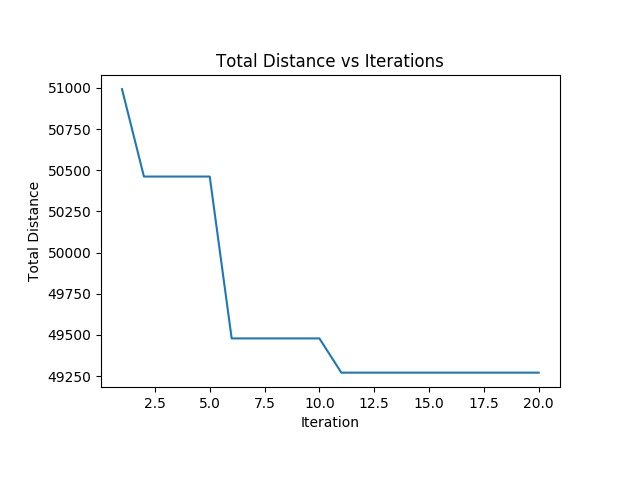
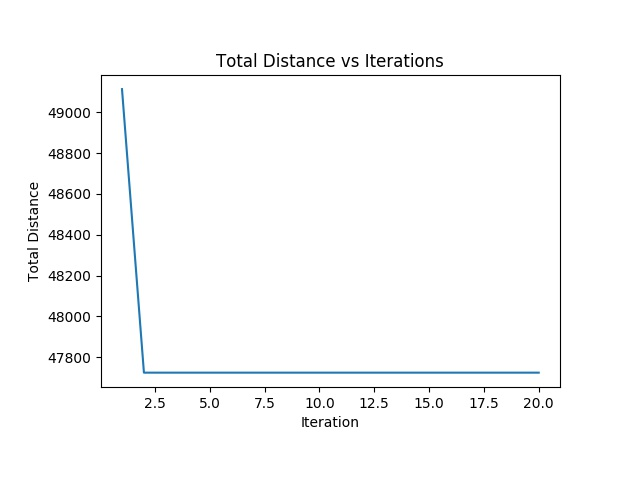
rda_algo_mpi_2.py working great just some overflow error

diff --git a/rda_algo_mpi_2.py b/rda_algo_mpi_2.py
@@ -14,7 +14,7 @@ import random, math
 import sys
 from tqdm import tqdm
 np.random.seed(44)
-
+np.seterr(all='warn')
 from utilities import Solution, initialize, sort_agents, cycle_cost, display
 
 from mpi4py import MPI
@@ -176,34 +176,29 @@ def RDA(num_agents, max_iter, graph, N_vertices, obj_function, save_conv_graph, 
             num_harems = None
             num_harems_len = None
 
-        harem_shape = comm.bcast(harem_shape, root=0)
-        num_harems_len = comm.bcast(num_harems_len, root=0)
-
-        harem_scattered = np.empty(shape=(harem_shape[0] // N_PROCS, harem_shape[1], harem_shape[2]))
-        num_harems_scattered = np.empty(num_harems_len // N_PROCS)
-
-        comm.Scatter(num_harems, num_harems_scattered)
-        comm.Scatter(harem, harem_scattered, root=0)
+        num_harems = comm.bcast(num_harems, root=0)
+        harem = comm.bcast(harem, root=0)
 
         if (myrank == 0):
             # mating of commander with hinds in his harem
-            num_harem_mate = np.array([int(x * alpha) for x in num_harems]) # Eq. (11)
+            num_harem_mate = [int(x * alpha) for x in num_harems] # Eq. (11)
             population_pool = list(deer)
         else:
             num_harem_mate = None
 
-        num_harem_mate_scattered = np.empty(num_coms // N_PROCS)
-
-        comm.Scatter(num_harem_mate, num_harem_mate_scattered, root=0)
-        comm.Scatter(coms, coms_scattered, root=0)
+        num_harem_mate = comm.bcast(num_harem_mate, root=0)
+        coms = comm.bcast(coms, root=0)
 
         population_pool_addition_local = []
 
-        for i in range(local_num_coms):
-            random.shuffle(harem_scattered[i])
-            for j in range(int(num_harem_mate_scattered[i])):
+        lo = myrank*(num_coms//N_PROCS)
+        hi = (myrank+1)*(num_coms//N_PROCS)
+        for i in range(lo, hi):
+            random.shuffle(harem[i])
+            for j in range(num_harem_mate[i]):
+                # print(j, end=', ')
                 r = np.random.random() # r is a random number in [0, 1]
-                offspring = (coms_scattered[i] + harem_scattered[i][j]) / 2 + (UB - LB) * r # Eq. (12)
+                offspring = (coms[i] + harem[i][j]) / 2 + (UB - LB) * r # Eq. (12)
 
                 population_pool_addition_local.append(list(offspring))
 
@@ -212,14 +207,14 @@ def RDA(num_agents, max_iter, graph, N_vertices, obj_function, save_conv_graph, 
                     # mating of commander with hinds in another harem
                     k = i
                     while k == i:
-                        k = random.choice(range(local_num_coms))
+                        k = random.choice(range(num_coms))
 
-                    num_mate = int(num_harems_scattered[k] * beta) # Eq. (13)
+                    num_mate = int(num_harems[k] * beta) # Eq. (13)
 
-                    np.random.shuffle(harem_scattered[k])
+                    np.random.shuffle(harem[k])
                     for j in range(num_mate):
                         r = np.random.random() # r is a random number in [0, 1]
-                        offspring = (coms_scattered[i] + harem_scattered[k][j]) / 2 + (UB - LB) * r
+                        offspring = (coms[i] + harem[k][j]) / 2 + (UB - LB) * r
                         population_pool_addition_local.append(list(offspring))
 
         population_pool_addition_Final = comm.gather(population_pool_addition_local, root=0)
@@ -249,12 +244,13 @@ def RDA(num_agents, max_iter, graph, N_vertices, obj_function, save_conv_graph, 
         population_pool_addition_local = []
 
         for stag in stags_scattered:
+            print(stag)
             dist = np.zeros(local_num_hinds)
             for i in range(local_num_hinds):
-                dist[i] = math.sqrt(np.sum((stag-hinds_scattered[i])*(stag-hinds_scattered[i])))
+                dist[i] = np.sqrt(np.sum((stag-hinds_scattered[i])*(stag-hinds_scattered[i])))
             min_dist = np.min(dist)
             for i in range(local_num_hinds):
-                distance = math.sqrt(np.sum((stag-hinds_scattered[i])*(stag-hinds_scattered[i]))) # Eq. (14)
+                distance = np.sqrt(np.sum((stag-hinds_scattered[i])*(stag-hinds_scattered[i]))) # Eq. (14)
                 if(distance == min_dist):
                     r = np.random.random() # r is a random number in [0, 1]
                     offspring = (stag + hinds_scattered[i])/2 + (UB - LB) * r
@@ -338,8 +334,8 @@ if __name__ == "__main__":
     comm = MPI.COMM_WORLD
     myrank = comm.Get_rank()
     N_PROCS = comm.Get_size()
-    N_vertices_sample_1 = 120
-    graph_sample_1 = np.zeros((120,120))
+    N_vertices_sample_1 = 100
+    graph_sample_1 = np.zeros((N_vertices_sample_1,N_vertices_sample_1))
 
     if(myrank == 0):
         for i in range(N_vertices_sample_1):
@@ -350,6 +346,6 @@ if __name__ == "__main__":
                 graph_sample_1[j][i] = graph_sample_1[i][j]
 
     comm.Bcast(graph_sample_1, root=0)
-    solution = RDA(num_agents=2000, max_iter=20, graph=graph_sample_1, N_vertices=N_vertices_sample_1, obj_function=cycle_cost, save_conv_graph=True, alpha=0.9, beta=0.4, gamma=0.5, num_males_frac=0.20, UB=5, LB=-5, myrank=myrank, N_PROCS=N_PROCS)
+    solution = RDA(num_agents=1200, max_iter=20, graph=graph_sample_1, N_vertices=N_vertices_sample_1, obj_function=cycle_cost, save_conv_graph=True, alpha=0.9, beta=0.4, gamma=0.5, num_males_frac=0.20, UB=5, LB=-5, myrank=myrank, N_PROCS=N_PROCS)
     if(myrank == 0):
         print(solution.execution_time)

diff --git a/rda_algo_mpi_3.py b/rda_algo_mpi_3.py
@@ -199,15 +199,9 @@ def RDA(num_agents, max_iter, graph, N_vertices, obj_function, save_conv_graph, 
 
         population_pool_addition_local = []
 
-        # num_harems = comm.bcast(num_harems, root=0)
-        # harem = comm.bcast(harem, root=0)
-        # num_harem_mate = comm.bcast(num_harem_mate, root=0)
-        # coms = comm.bcast(coms, root=0)
-
         for i in range(local_num_coms):
             random.shuffle(harem_scattered[i])
             for j in range(int(num_harem_mate_scattered[i])):
-                # print(j,end=', ')
                 r = np.random.random() # r is a random number in [0, 1]
                 offspring = (coms_scattered[i] + harem_scattered[i][j]) / 2 + (UB - LB) * r # Eq. (12)
 
@@ -234,11 +228,6 @@ def RDA(num_agents, max_iter, graph, N_vertices, obj_function, save_conv_graph, 
             for population_pool_addition_local_gathered in population_pool_addition_Final:
                 for it in population_pool_addition_local_gathered:
                     population_pool.append(it)
-
-        comm.Gather(num_harems_scattered, num_harems)
-        comm.Gather(harem_scattered, harem)
-        comm.Gather(num_harem_mate_scattered, num_harem_mate)
-        comm.Gather(coms_scattered, coms)
 
         comm.Barrier()
 

diff --git a/rda_algo.py b/rda_algo.py
@@ -169,6 +169,7 @@ def RDA(num_agents, max_iter, graph, N_vertices, obj_function, save_conv_graph, 
 
         # mating of stag with nearest hind
         for stag in stags:
+            print(stag)
             dist = np.zeros(num_hinds)
             for i in range(num_hinds):
                 dist[i] = math.sqrt(np.sum((stag-hinds[i])*(stag-hinds[i])))
@@ -265,6 +266,6 @@ for i in range(N_vertices_sample_1):
     graph_sample_1[i][j] = np.random.randint(1000)
     graph_sample_1[j][i] = graph_sample_1[i][j]
 
-solution = RDA(num_agents=2000, max_iter=20, graph=graph_sample_1, N_vertices=N_vertices_sample_1, obj_function=cycle_cost, save_conv_graph=True, alpha=0.9, beta=0.4, gamma=0.5, num_males_frac=0.20, UB=5, LB=-5)
+solution = RDA(num_agents=2000, max_iter=20, graph=graph_sample_1, N_vertices=N_vertices_sample_1, obj_function=cycle_cost, save_conv_graph=True, alpha=0.9, beta=0.4, gamma=0.5, num_males_frac=0.20, UB=10, LB=-10)
 
 #----------Big example-----------------
